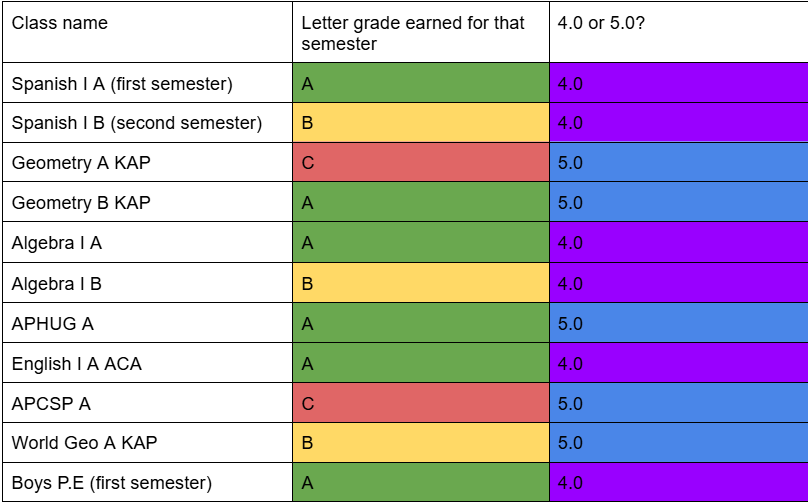
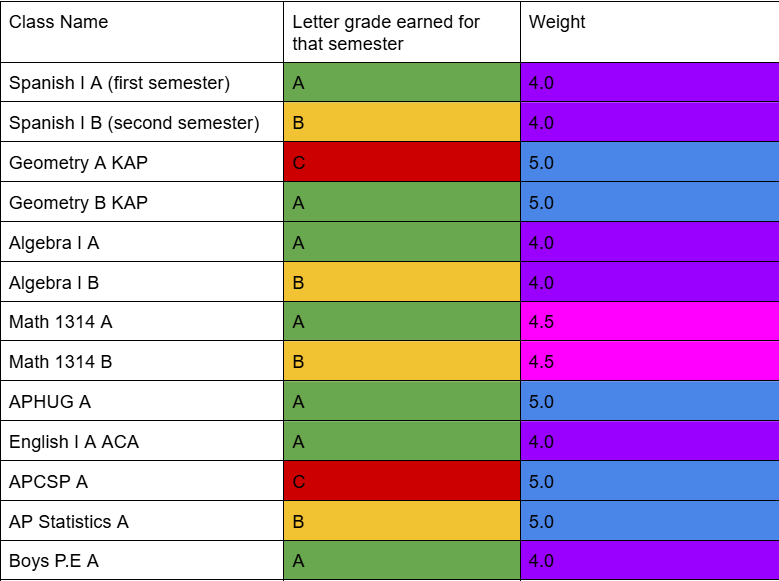
added dual credit to gpa, middle school page updated

diff --git a/src/GPACalculator.js b/src/GPACalculator.js
@@ -3,6 +3,7 @@ import React, { useState, useEffect } from 'react';
 function GPACalculator() {
   const [academicGrades, setAcademicGrades] = useState('');
   const [kapApGrades, setKapApGrades] = useState('');
+  const [dualCred, setDualCred] = useState('');
   const [weightedGpa, setWeightedGpa] = useState(null);
   const [UnweightedGpa, setUnweightedGpa] = useState(null);
   const [savedGpas, setSavedGpas] = useState([]);
@@ -11,6 +12,7 @@ function GPACalculator() {
   const handleCalculateSaved = (grade) => {
     setAcademicGrades(grade.academicGrades || '');
     setKapApGrades(grade.kapApGrades || '');
+    setDualCred(grade.dualCred || '');
     setWeightedGpa(grade.weightedGpa || '');
     setUnweightedGpa(grade.UnweightedGpa || '');
     calculateGPA();
@@ -20,10 +22,12 @@ function GPACalculator() {
   useEffect(() => {
     const savedAcademic = localStorage.getItem('academicGrades');
     const savedKapAp = localStorage.getItem('kapApGrades');
+    const savedDualCred = localStorage.getItem('dualCred');
     const savedGpasData = localStorage.getItem('savedGpas');
 
     if (savedAcademic) setAcademicGrades(savedAcademic);
     if (savedKapAp) setKapApGrades(savedKapAp);
+    if (dualCred) setDualCred (savedDualCred);
     if (savedGpasData) setSavedGpas(JSON.parse(savedGpasData) || []);
   }, []);
 
@@ -34,13 +38,16 @@ function GPACalculator() {
 
   const isDataSaved =
   localStorage.getItem('academicGrades') ||
-  localStorage.getItem('kapApGrades');
+  localStorage.getItem('kapApGrades') || 
+  localStorage.getItem('dualCred');
 
   const handleReset = () => {
     localStorage.removeItem('academicGrades');
     localStorage.removeItem('kapApGrades');
+    localStorage.removeItem('dualCred');
     setAcademicGrades('');
     setKapApGrades('');
+    setDualCred('');
     setCalculationMade(false); 
     alert("Saved data cleared.");
   };
@@ -78,20 +85,23 @@ function GPACalculator() {
   const calculateGPA = () => {
     const acaLetters = { A: 4, B: 3, C: 2, D: 1, F: 0 };
     const kapApLetters = { A: 5, B: 4, C: 3, D: 2, F: 0 };
+    const dualCredLetters = {A: 4.5, B:3.5, C: 2.5, F: 0};
 
     const acaPointsCount = calculatePoints(academicGrades, acaLetters);
+    const dualCredPointsCount = calculatePoints(dualCred, dualCredLetters);
     const unweightedKapApPointsCount = calculatePoints(kapApGrades, acaLetters)
+    const unweightedDualCredPointCount = calculatePoints(dualCred, acaLetters);
     const kapPointsCount = calculatePoints(kapApGrades === 'none' ? '' : kapApGrades, kapApLetters);
 
-    if (acaPointsCount.hasError || kapPointsCount.hasError) {
+    if (acaPointsCount.hasError || kapPointsCount.hasError || dualCredPointsCount.hasError) {
       setWeightedGpa(null);
       setUnweightedGpa(null); 
       return;
     }
 
-    const totalPoints = acaPointsCount.points + kapPointsCount.points;
-    const totalCourses = acaPointsCount.count + kapPointsCount.count;
-    const unweightedPoints = unweightedKapApPointsCount.points + acaPointsCount.points;
+    const totalPoints = acaPointsCount.points + kapPointsCount.points + dualCredPointsCount.points;
+    const totalCourses = acaPointsCount.count + kapPointsCount.count + dualCredPointsCount.count;
+    const unweightedPoints = unweightedKapApPointsCount.points + acaPointsCount.points + unweightedDualCredPointCount.points;
 
     const calculatedWeightedGpa = totalCourses > 0 ? totalPoints / totalCourses : 0;
     const calculatedUnweightedGpa = totalCourses > 0 ? unweightedPoints / totalCourses : 0
@@ -105,6 +115,7 @@ function GPACalculator() {
     if (!localStorage.getItem('academicGrades') && !localStorage.getItem('kapApGrades') ) {
       setAcademicGrades('');
       setKapApGrades('');
+      setDualCred('');
     }
     setWeightedGpa(null);
     setCalculationMade(false);
@@ -116,6 +127,7 @@ function GPACalculator() {
         name: name,
         academicGrades: academicGrades,
         kapApGrades: kapApGrades,
+        dualCred: dualCred,
         weightedGpa: weightedGpa,
         unweightedGpa: UnweightedGpa,
       };
@@ -125,6 +137,7 @@ function GPACalculator() {
       localStorage.setItem('savedGpas', JSON.stringify(updatedSavedGpas));
       setAcademicGrades('');
       setKapApGrades('');
+      setDualCred('');
       setWeightedGpa(null);
       setUnweightedGpa(null);
       setCalculationMade(false);
@@ -155,6 +168,13 @@ function GPACalculator() {
         placeholder="ACA (4.0) courses"
         value={academicGrades}
         onChange={(e) => handleInputChange(e, setAcademicGrades)}
+        className="border border-gray-300 rounded px-3 py-2 mb-2 w-full"
+      />
+      <input
+        type="text"
+        placeholder="Dual Credit (4.5) courses"
+        value={dualCred}
+        onChange={(e) => handleInputChange(e, setDualCred)}
         className="border border-gray-300 rounded px-3 py-2 mb-2 w-full"
       />
       <input
@@ -234,6 +254,9 @@ function GPACalculator() {
       </p>
                     <p>
                       <strong>ACA Courses:</strong> {gpa.academicGrades || 'N/A'}
+                    </p>
+                    <p>
+                      <strong>Dual Courses:</strong> {gpa.dualCred || 'N/A'}
                     </p>
                     <p>
                       <strong>KAP/AP Courses:</strong> {gpa.kapApGrades || 'N/A'}

diff --git a/src/MiddleSchool.js b/src/MiddleSchool.js
@@ -138,10 +138,10 @@ function MiddleSchool() {
     // Also, remove "realtive" as it's not needed for this layout
     <div className="App flex flex-col items-center min-h-screen justify-start bg-gray-200 m-0">
        <Navbar/>
-      {/* Step 2: Add a new div to wrap the content and grow */}
       <div className="flex flex-col items-center flex-grow">
         <div className="mt-6 p-6 w-auto max-w-2xl h-full">
-          <div className="bg-white p-8">
+                
+          <div className="bg-white p-8 mt-5">
             <h2 className="text-2xl font-bold mb-4">JH Class Average</h2>
             <input
               type="text"
@@ -200,6 +200,28 @@ function MiddleSchool() {
                 <p>ACA Average: {results.aca.toFixed(2)}</p>
               </div>
             )}
+             <h1 className="text-xl underline mt-8 justify-start items-start">Your High School Credit Courses</h1>
+                <p className="mt-3 font-bold">
+                Updated September 12th, 2025
+                </p>
+                <p className="mt-3">
+                1. Professional Communications (4.0, 0.5 credits): Can be taken as an elective. Grades 6-8 are eligible to take this course.
+                </p>
+                <p className="mt-3">
+                2. GATEWAY TECH 1 (4.0, 0.5 credits): Can be taken as an elective. Grades 6-8 are eligible to take this course.
+                </p>
+                <p className="mt-3">
+                3. Spanish I A & B (4.0, 1 credit): Grades 8 and higher are eligible to take this course.
+                </p>
+                 <p className="mt-3">
+                4. Spanish for Spanish Speakers I or II (4.0, 1 credit for either class): Grades 8 and higher are eligible to take this course.
+                </p>
+                 <p className="mt-3">
+                5. Geometry KAP A  & B (5.0, 1 credit): Anyone who recieved credit for algebra I, either through the CBE or normally, is eligible to take this course.
+                </p>
+                <p className="mt-3">
+                6. Algebra I A  & B (EX, 1 credit): Anyone who recieved credit for 7th grade math KAP, either through the CBE or normally, is eligible to take this course. This course does not affect your high school GPA for class of 2029 onwards.
+                </p>
             {showSavedGrades && (
               <div className="fixed inset-0 bg-black bg-opacity-50 flex justify-center items-center">
                 <div className="bg-white p-8 rounded-lg w-1/2  w-[90vw] md:w-[40vw] max-h-[70vh] overflow-y-auto overflow-x-auto">
@@ -254,6 +276,7 @@ function MiddleSchool() {
                     <p className="text-center">No classes saved to this browser.</p>
                   )}
                 </div>
+                
               </div>
             )}
           </div>
@@ -264,6 +287,7 @@ function MiddleSchool() {
       <Footer/>
       
     </div>
+    
   );
 }
 

diff --git a/src/HowToUse.js b/src/HowToUse.js
@@ -50,7 +50,7 @@ function HowToUse() {
                         className="max-w-full md:max-w-[35%] h-auto rounded-md shadow-md"
                     />
                 </div>
-                <p className = "mt-3">In the example transcript above, the student earned As in four and Bs in two 4.0 semesters. They also earned As in two 5.0 semesters, a B in one 5.0 semester, and Cs in two 5.0 semesters. Their calculation would be the following:</p>
+                <p className = "mt-3">In the example transcript above, the student earned As in four and Bs in two 4.0 semesters. They earned As in two 5.0 semesters, a B in one 5.0 semester, and Cs in two 5.0 semesters. They also earned As in 1 dual credit (4.5) semester and a B in another dual credit semester. Their calculation would be the following:</p>
                 <div className="flex flex-col md:flex-row mt-4 gap-4 justify-center items-center">
             <img
                         src="/gpaexample.png"
@@ -58,7 +58,7 @@ function HowToUse() {
                         className="max-w-full md:max-w-[45%] h-auto rounded-md shadow-md"
                     />
                 </div>
-                <p className = "mt-3 mb-4">Please note that this calculator does not yet support dual credit (4.5) courses.</p>
+                <p className = "mt-3 mb-4">The top row is for ACA class entries, the middle is for dual credits, and the last is for KAP class entries. If you didn't take a certain type of class you can leave that row blank.</p>
                 <h1 className="text-xl underline mt-5">Semester Exam Calculator</h1>
                 <p className="mt-4">
                 Input your six-week averages for any class into the SW fields, and input your mock final exam score in the final row. The calculator will return the minimum exam scores you need for your average to be an A or higher, B or higher, and C or higher, as well as your average if you exempted the final, your best-case scenario average, and average with your mock exam grade. ✅ Guaranteed means you will get that letter grade or higher for your average. ❌Impossible means that even with a 100 on the final exam, it would not be possible for you to receive that letter grade or higher.

diff --git a/src/App.js b/src/App.js
@@ -26,7 +26,7 @@ function App() {
       {showPopup && (
         <div className="fixed top-0 left-0 w-full h-full z-40 bg-black bg-opacity-50">
         <div className="fixed top-1/2 left-1/2 transform -translate-x-1/2 -translate-y-1/2 bg-white p-6 rounded-md shadow-lg z-100 border border-gray-300 text-center">
-          <p className="mb-4">👋 Hey there! Make sure you visit the <a href="/how-to-use" className="text-blue-500 underline">how to use</a> page before using our calculators!</p>
+          <p className="mb-4">👋 Hey there! Welcome to Katy Grade Calc, a free website that calculates your Katy ISD grades. Please make sure you visit the how to use page before using our calculators. Disclaimer: this website was not created nor endorsed by Katy ISD in any way.</p>
           <button onClick={closePopup} className="bg-blue-600 hover:bg-blue-900 text-white font-bold py-2 px-4 rounded">
             Got it!
           </button>

diff --git a/src/Navbar.js b/src/Navbar.js
@@ -109,14 +109,14 @@ function Navbar({ setShowHowToUse }) {
           >
             Feedback
           </Link>
-
           <Link
             to="/middle-school"
             className="block md:inline-block text-gray-300 hover:text-white py-2 px-4"
             onClick={() => setIsOpen(false)}
           >
-            Middle School
+            Middle Schoolers
           </Link>
+
         </div>
       </div>
 

diff --git a/src/SemesterCalculator.js b/src/SemesterCalculator.js
@@ -151,7 +151,7 @@ function SemesterCalculator() {
       />
         <input
         type="number"
-        placeholder="Exam score"
+        placeholder="Mock exam score"
         value={testScore}
         onChange={(e) => handleInputChange(e, setTestScore)}
         className="border border-gray-300 rounded px-3 py-2 mb-4 w-full"
